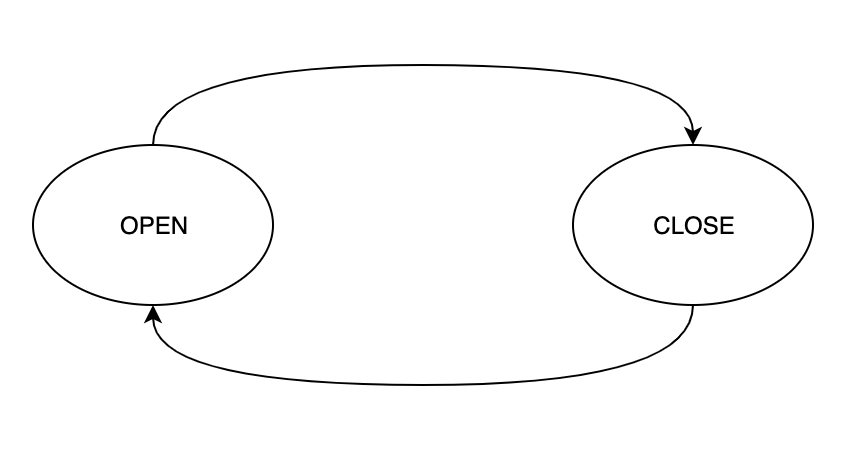
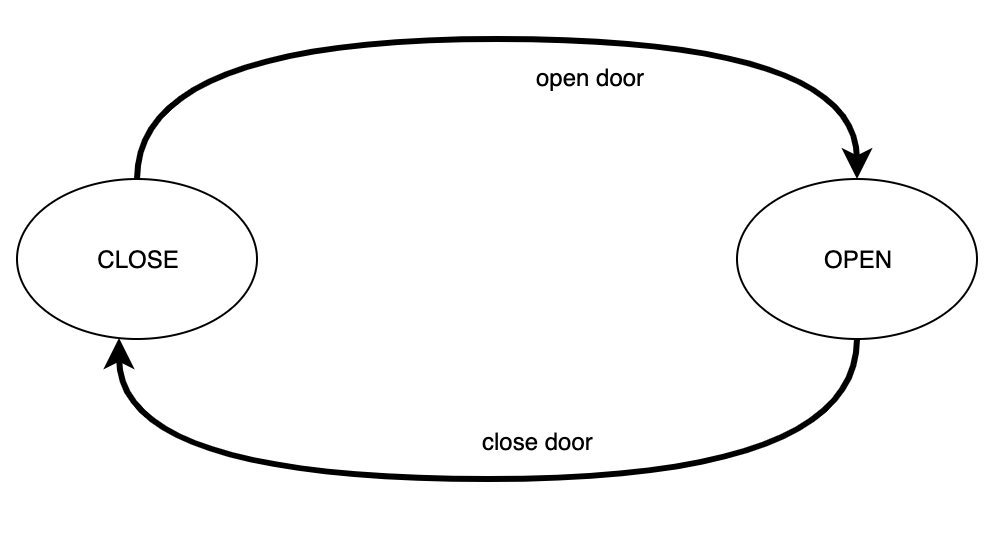
Upd images and readme
More examples and fixed images

diff --git a/README.md b/README.md
@@ -4,9 +4,12 @@
 [![Go Report Card](https://goreportcard.com/badge/github.com/gebv/ffsm)](https://goreportcard.com/report/github.com/gebv/ffsm)
 [![codecov](https://codecov.io/gh/gebv/ffsm/branch/master/graph/badge.svg)](https://codecov.io/gh/gebv/ffsm)
 
-Finite state machine (FSM) written in Go. It is a low-level primitive for more complex solutions. Supported transition handler for advanced logic.
+Finite state machine (FSM) written in Go. It is a low-level primitive for more complex solutions. Supported (optional)  transition handler for advanced logic.
 
-Working code [see more in tests](fsm_test.go)
+* [Features](#features)
+* [Example code](#examples)
+* [Additional packages](#additional-packages)
+* [Licence](#license)
 
 ## Features
 
@@ -14,7 +17,36 @@ Working code [see more in tests](fsm_test.go)
 * dispatcher is thread-safe
 * implemented `prometheus.Collector` for monitoring
 
-## Simple FSM
+## Quickstart
+
+Install or update `ffsm` package.
+
+```
+go get -u github.com/gebv/ffsm
+```
+
+Simple example:
+
+```golang
+// setup state transition diagram
+wf := make(ffsm.Stack).Add(OpenDoor, CloseDoor).Add(CloseDoor, OpenDoor)
+
+// init FSM with initial state CloseDoor
+fsm := ffsm.NewFSM(wf, CloseDoor)
+
+// to opens the door
+err := fsm.Dispatch(context.Background(), OpenDoor)
+
+if err != nil {
+  // handler errors
+}
+
+fsm.State() // end state
+```
+
+## Examples
+
+### Simple FSM
 
 Can open door and close door. Opened door can not open. And closed door can not close.
 
@@ -22,20 +54,168 @@ Follow state transition diagram in image
 
 <img title="State transition diagram for simlpe FSM" src=".github/fsm-simple.png" width="350" />
 
-TODO: on the playground
-TODO: listing code
+On the playground https://play.golang.org/p/Z_iOnuTXOG4
 
-## FSM with transition handlers
+<details>
+  <summary>Listing code</summary>
+
+```golang
+package main
+
+import (
+	"context"
+	"fmt"
+
+	"github.com/gebv/ffsm"
+)
+
+func main() {
+	// setup state transition diagram
+	wf := make(ffsm.Stack).Add(OpenDoor, CloseDoor).Add(CloseDoor, OpenDoor)
+
+	// init FSM with initial state CloseDoor
+	fsm := ffsm.NewFSM(wf, CloseDoor)
+	fmt.Println("initial state:", fsm.State())
+	fmt.Println()
+
+	fmt.Println("to open door")
+	fmt.Println("----------------------------")
+	fmt.Println("before:", fsm.State())
+	err := fsm.Dispatch(context.Background(), OpenDoor)
+	if err != nil {
+		fmt.Println("failed:", err)
+	}
+	fmt.Println("after:", fsm.State())
+	fmt.Println()
+
+	fmt.Println("to open door for opened door")
+	fmt.Println("----------------------------")
+	fmt.Println("before:", fsm.State())
+	err = fsm.Dispatch(context.Background(), OpenDoor)
+	if err != nil {
+		fmt.Println("failed:", err)
+	}
+	fmt.Println("after:", fsm.State())
+	fmt.Println()
+
+	fmt.Println("to close door")
+	fmt.Println("----------------------------")
+	fmt.Println("before:", fsm.State())
+	err = fsm.Dispatch(context.Background(), CloseDoor)
+	if err != nil {
+		fmt.Println("failed:", err)
+	}
+	fmt.Println("after:", fsm.State())
+}
+
+const (
+	OpenDoor  = ffsm.State("open")
+	CloseDoor = ffsm.State("close")
+)
+```
+
+</details>
+
+### FSM with transition handlers
 
 Only Bob can open door. Anyone can close the door. And also opened door can not open and closed door can not close.
 
 Follow state transition diagram in image
 
-<img title="Simple FSM" src=".github/fsm-with-handler.png" width="350" />
+<img title="Simple FSM" src=".github/fsm-with-handlers.png" width="350" />
 
-TODO: on the playground
-TODO: listing code
+On the playground https://play.golang.org/p/6a_wvlMTnbx
 
+<details>
+  <summary>Listing code</summary>
+
+```golang
+package main
+
+import (
+	"context"
+	"fmt"
+	"errors"
+
+	"github.com/gebv/ffsm"
+)
+
+func main() {
+	// handler for CloseDoor to OpenDoor transition
+	onlyBobHandler := func(ctx context.Context) (context.Context, error) {
+		name, ok := ctx.Value("__name").(string)
+		if !ok {
+			return ctx, errors.New("forbidden - only for Bob")
+		}
+		if name != "bob" {
+			return ctx, errors.New("forbidden - only for Bob")
+		}
+		return ctx, nil
+	}
+	// setup state transition diagram
+	wf := make(ffsm.Stack).Add(OpenDoor, CloseDoor).Add(CloseDoor, OpenDoor, onlyBobHandler)
+
+	// init FSM with initial state CloseDoor
+	fsm := ffsm.NewFSM(wf, CloseDoor)
+	fmt.Println("initial state:", fsm.State())
+	fmt.Println()
+
+	fmt.Println("anonymous opens door")
+	fmt.Println("----------------------------")
+	fmt.Println("before:", fsm.State())
+	err := fsm.Dispatch(context.Background(), OpenDoor)
+	if err != nil {
+		fmt.Println("failed:", err)
+	}
+	fmt.Println("after:", fsm.State())
+	fmt.Println()
+
+	fmt.Println("Bob opens door")
+	fmt.Println("----------------------------")
+	fmt.Println("before:", fsm.State())
+	bobCtx := context.WithValue(context.Background(), "__name", "bob")
+	err = fsm.Dispatch(bobCtx, OpenDoor)
+	if err != nil {
+		fmt.Println("failed:", err)
+	}
+	fmt.Println("after:", fsm.State())
+	fmt.Println()
+
+	fmt.Println("to open door for opened door")
+	fmt.Println("----------------------------")
+	fmt.Println("before:", fsm.State())
+	err = fsm.Dispatch(context.Background(), OpenDoor)
+	if err != nil {
+		fmt.Println("failed:", err)
+	}
+	fmt.Println("after:", fsm.State())
+	fmt.Println()
+
+	fmt.Println("to close door")
+	fmt.Println("----------------------------")
+	fmt.Println("before:", fsm.State())
+	err = fsm.Dispatch(context.Background(), CloseDoor)
+	if err != nil {
+		fmt.Println("failed:", err)
+	}
+	fmt.Println("after:", fsm.State())
+}
+
+const (
+	OpenDoor  = ffsm.State("open")
+	CloseDoor = ffsm.State("close")
+)
+```
+</details>
+
+### More examples
+
+[See more in tests](fsm_test.go)
+
+# Additional packages
+
+* [github.com/prometheus/client_golang](https://github.com/prometheus/client_golang) prometheus client for golang
+* [github.com/stretchr/testify](https://github.com/stretchr/testify) helper package for testing
 
 # License
 
